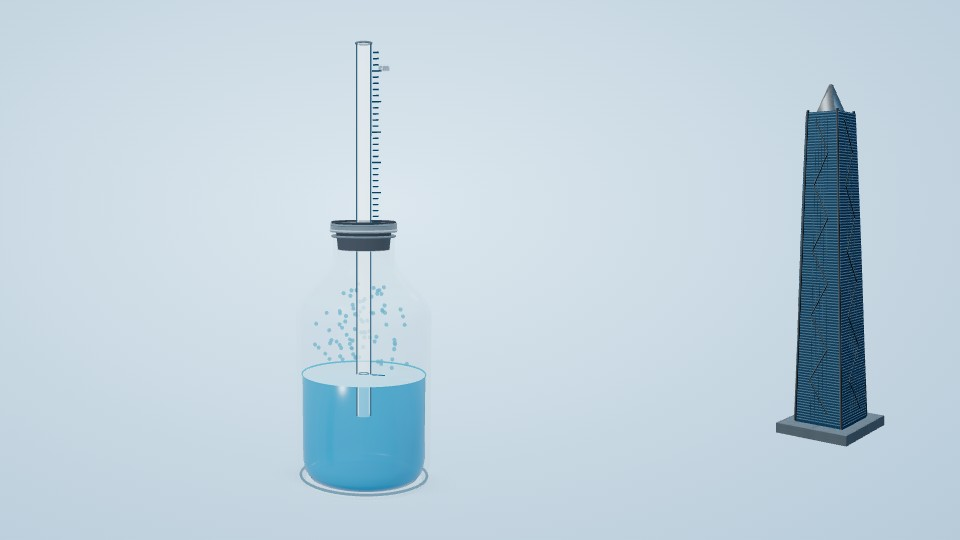
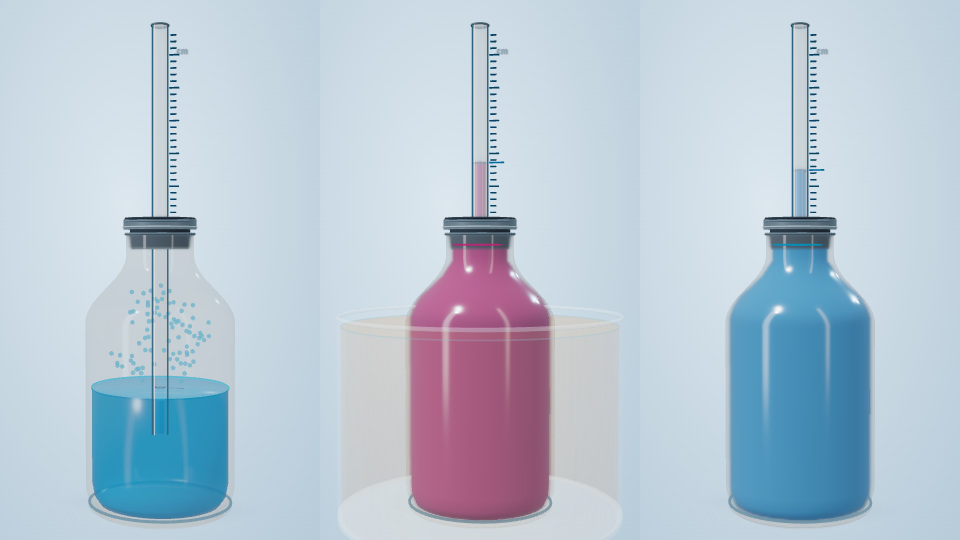
Enhance glass materials across capillary experiments and water bath

Changed region(s): [[0.3125, 0.0296, 0.6562, 0.9778], [0.75, 0.0296, 0.9375, 0.9778], [0.0938, 0.0296, 0.25, 0.9778]]

diff --git a/models/capillary-three-experiments.html b/models/capillary-three-experiments.html
@@ -70,7 +70,7 @@ main{height:calc(100dvh - 58px);min-height:0;max-width:none;padding:12px;gap:12p
 </style>
 </head>
 <body>
-<header><div><h1>自制气压计、温度计与微小形变</h1><div class="sub">同一容器结构 · 气压变化 / 液体热膨胀 / 弹性形变</div></div><span class="version"><span class="dot"></span>V12 · 吹气时长与压强联动</span></header>
+<header><div><h1>自制气压计、温度计与微小形变</h1><div class="sub">同一容器结构 · 气压变化 / 液体热膨胀 / 弹性形变</div></div><span class="version"><span class="dot"></span>V13 · 玻璃质感与压强联动</span></header>
 <main><section class="stage" aria-label="三维模型演示区域">
   <div class="mode-tabs"><button class="mode active" data-mode="pressure">① 自制气压计</button><button class="mode" data-mode="temp">② 自制温度计</button><button class="mode" data-mode="grip">③ 微小形变</button></div>
   <div id="view"></div>
@@ -106,11 +106,12 @@ let whichAction='prepare',showSection=false,showGas=true,showNotes=true,showMark
 const scene=new T.Scene(),cam=new T.PerspectiveCamera(36,1,.05,100);cam.position.set(8.6,6.0,12.8);const renderer=new T.WebGLRenderer({antialias:true,alpha:true,powerPreference:'high-performance'});renderer.setPixelRatio(Math.min(devicePixelRatio||1,1.8));renderer.outputColorSpace=T.SRGBColorSpace;renderer.toneMapping=T.ACESFilmicToneMapping;renderer.toneMappingExposure=.96;renderer.localClippingEnabled=true;view.appendChild(renderer.domElement);
 scene.add(new T.HemisphereLight(0xeaf6ff,0x8698a8,1.7));let sun=new T.DirectionalLight(0xffffff,1.35);sun.position.set(-6,11,8);scene.add(sun);let edge=new T.DirectionalLight(0xbddff7,.62);edge.position.set(5,5,-8);scene.add(edge);
 // Procedurally painted studio environment; generated locally with Canvas, no remote HDR files.
-function buildStudioEnv(){const c=document.createElement('canvas');c.width=1024;c.height=512;const g=c.getContext('2d');
- const grad=g.createLinearGradient(0,0,0,512);grad.addColorStop(0,'#b9d1df');grad.addColorStop(.22,'#edf4f8');grad.addColorStop(.50,'#dfe9ee');grad.addColorStop(.76,'#c7d5df');grad.addColorStop(1,'#788d9c');g.fillStyle=grad;g.fillRect(0,0,1024,512);
- for(const r of [[110,72,145,235],[470,62,105,249],[731,58,156,223],[975,88,22,220]]){let rr=g.createLinearGradient(r[0],0,r[0]+r[2],0);rr.addColorStop(0,'rgba(255,255,255,.03)');rr.addColorStop(.15,'rgba(250,253,255,.70)');rr.addColorStop(.84,'rgba(250,253,255,.70)');rr.addColorStop(1,'rgba(255,255,255,.02)');g.fillStyle=rr;g.fillRect(...r)}
- g.fillStyle='rgba(40,73,102,.30)';g.fillRect(290,70,36,220);g.fillRect(887,100,41,196);
- const tex=new T.CanvasTexture(c);tex.mapping=T.EquirectangularReflectionMapping;tex.colorSpace=T.SRGBColorSpace;const pmrem=new T.PMREMGenerator(renderer);const env=pmrem.fromEquirectangular(tex).texture;tex.dispose();return env;}
+function buildStudioEnv(){
+ const stage=new T.Scene();stage.add(new T.Mesh(new T.BoxGeometry(60,60,60),new T.MeshBasicMaterial({color:0x929da3,side:T.BackSide})));
+ for(const spec of [{p:[-12,7,14],size:[3.2,22],power:4.0,color:0xf6faff},{p:[11,8,10],size:[1.8,23],power:2.8,color:0xfff6e6},{p:[0,18,-9],size:[17,4],power:2.5,color:0xeaf5ff}]){
+ const panel=new T.Mesh(new T.PlaneGeometry(...spec.size),new T.MeshBasicMaterial({color:new T.Color(spec.color).multiplyScalar(spec.power),side:T.DoubleSide}));panel.position.set(...spec.p);panel.lookAt(0,3,0);stage.add(panel);}
+ const generator=new T.PMREMGenerator(renderer),target=generator.fromScene(stage,.025);stage.traverse(node=>{node.geometry?.dispose();node.material?.dispose();});generator.dispose();return target.texture;
+}
 const studioEnv=buildStudioEnv();scene.environment=studioEnv;
 const benchTex=(function(){const c=document.createElement('canvas');c.width=c.height=512;const g=c.getContext('2d');g.fillStyle='#d7dde2';g.fillRect(0,0,512,512);for(let i=0;i<4200;i++){const x=Math.random()*512,y=Math.random()*512,a=.025+Math.random()*.03,v=205+Math.random()*28;g.fillStyle=`rgba(${v},${v},${v+6},${a})`;g.fillRect(x,y,1.6+Math.random()*2.8,1.6+Math.random()*2.8);}for(let i=0;i<22;i++){g.strokeStyle=`rgba(255,255,255,${.024+Math.random()*.018})`;g.lineWidth=1+Math.random()*2.2;g.beginPath();g.moveTo(0,Math.random()*512);g.lineTo(512,Math.random()*512);g.stroke();}const t=new T.CanvasTexture(c);t.wrapS=t.wrapT=T.RepeatWrapping;t.repeat.set(1.2,1.2);return t;})();
 const bench=new T.Mesh(new T.CircleGeometry(2.8,96),new T.MeshStandardMaterial({color:0xd7dde2,map:benchTex,roughness:.66,metalness:.06}));bench.rotation.x=-Math.PI/2;bench.position.y=-.064;bench.receiveShadow=true;scene.add(bench);
@@ -121,13 +122,18 @@ function makeShadowTex(){const c=document.createElement('canvas');c.width=c.heig
 const contactShadow=new T.Mesh(new T.PlaneGeometry(2.65,1.34),new T.MeshBasicMaterial({map:makeShadowTex(),transparent:true,depthWrite:false,opacity:.92}));contactShadow.rotation.x=-Math.PI/2;contactShadow.position.set(0,.176,0);contactShadow.renderOrder=1;root.add(contactShadow);
 function makeHighlightTex(){const c=document.createElement('canvas');c.width=512;c.height=256;const g=c.getContext('2d');const r=g.createRadialGradient(256,128,18,256,128,220);r.addColorStop(0,'rgba(255,255,255,.35)');r.addColorStop(.38,'rgba(255,255,255,.12)');r.addColorStop(1,'rgba(255,255,255,0)');g.fillStyle=r;g.fillRect(0,0,512,256);const t=new T.CanvasTexture(c);return t;}
 const tableHighlight=new T.Mesh(new T.PlaneGeometry(2.95,1.55),new T.MeshBasicMaterial({map:makeHighlightTex(),transparent:true,depthWrite:false,opacity:.42}));tableHighlight.rotation.x=-Math.PI/2;tableHighlight.position.set(.04,.178,.05);tableHighlight.renderOrder=0;root.add(tableHighlight);
-const glassMat=new T.MeshPhysicalMaterial({color:0xcce6f2,metalness:0,roughness:.25,transmission:0,transparent:true,opacity:.13,depthWrite:false,side:T.FrontSide,envMapIntensity:.25,clearcoat:.18});
-const innerWallMat=new T.MeshPhysicalMaterial({color:0xc4e2ef,metalness:0,roughness:.3,transmission:0,transparent:true,opacity:.035,depthWrite:false,side:T.BackSide,envMapIntensity:.18});
+// Display lengths are model units: bottle height 3.5, wall thickness about .052.
+const glassMat=new T.MeshPhysicalMaterial({color:0xf1fbff,metalness:0,roughness:.055,transmission:.95,transparent:true,opacity:1,depthWrite:false,side:T.FrontSide,envMapIntensity:1.05,ior:1.5,thickness:.052,attenuationColor:new T.Color(0xc1e3eb),attenuationDistance:4,clearcoat:.12,clearcoatRoughness:.08});
+glassMat.userData.noMaterialFinish=true;
+const innerWallMat=new T.MeshPhysicalMaterial({color:0xe0f1f6,metalness:0,roughness:.07,transmission:0,transparent:true,opacity:.065,depthWrite:false,side:T.BackSide,envMapIntensity:.75,clearcoat:.25});innerWallMat.userData.noMaterialFinish=true;
 function tinyRubberNoise(){let c=document.createElement('canvas');c.width=c.height=128;let g=c.getContext('2d');let d=g.createImageData(128,128);for(let i=0;i<d.data.length;i+=4){let q=110+Math.random()*52;d.data[i]=q;d.data[i+1]=q;d.data[i+2]=q;d.data[i+3]=255;}g.putImageData(d,0,0);let t=new T.CanvasTexture(c);t.wrapS=t.wrapT=T.RepeatWrapping;t.repeat.set(3,3);return t;}
 const rubberBump=tinyRubberNoise();
 const rubber=new T.MeshStandardMaterial({color:0x303942,roughness:.92,metalness:0,bumpMap:rubberBump,bumpScale:.006});const rubberRim=new T.MeshStandardMaterial({color:0x697780,roughness:.42,metalness:.25});
-const waterPressureMat=new T.MeshPhysicalMaterial({color:0x1489bb,roughness:.17,metalness:0,transparent:true,opacity:.82,depthWrite:false,side:T.DoubleSide,clearcoat:.48,clearcoatRoughness:.1,envMapIntensity:.56});const waterTempMat=new T.MeshPhysicalMaterial({color:0xb53370,roughness:.17,metalness:0,transparent:true,opacity:.85,depthWrite:false,side:T.DoubleSide,clearcoat:.44,clearcoatRoughness:.1,envMapIntensity:.52});
-const innerGlass=new T.MeshPhysicalMaterial({color:0xdcebF4,roughness:.08,transparent:true,opacity:.46,depthWrite:false,side:T.DoubleSide,clearcoat:1,clearcoatRoughness:.025,envMapIntensity:1.4});
+const waterPressureMat=new T.MeshPhysicalMaterial({color:0x1489bb,roughness:.17,metalness:0,transparent:true,opacity:.60,depthWrite:false,side:T.DoubleSide,clearcoat:.25,clearcoatRoughness:.1,envMapIntensity:.42});
+const waterTempMat=new T.MeshPhysicalMaterial({color:0xb53370,roughness:.17,metalness:0,transparent:false,opacity:1,depthWrite:true,side:T.DoubleSide,clearcoat:.25,clearcoatRoughness:.1,envMapIntensity:.42});
+const waterGripMat=waterTempMat.clone();waterGripMat.color.set(0x1489bb);
+for(const material of [waterPressureMat,waterTempMat,waterGripMat])material.userData.noMaterialFinish=true;
+const innerGlass=new T.MeshPhysicalMaterial({color:0xf3fbff,roughness:.065,transmission:.82,ior:1.5,thickness:.035,transparent:true,opacity:1,depthWrite:false,side:T.FrontSide,clearcoat:.18,clearcoatRoughness:.08,envMapIntensity:1});innerGlass.userData.noMaterialFinish=true;
 const outline=new T.MeshBasicMaterial({color:0x63859a,transparent:true,opacity:.78});
 const glassProfileSource=[[0,.15],[.56,.15],[.75,.16],[.86,.22],[.92,.34],[.95,.51],[.95,2.52],[.93,2.66],[.85,2.81],[.69,2.96],[.54,3.11],[.44,3.27],[.43,3.39],[.43,3.64]];
 // Continuous, non-folding bottle profile: long straight walls must not be spline-overshot.
@@ -140,7 +146,7 @@ const lathe=(p,partial=false)=>new T.LatheGeometry(p.map(a=>new T.Vector2(a[0],a
 const glassHolder=new T.Group();root.add(glassHolder);let shell=new T.Mesh(lathe(glassProfile),glassMat);shell.scale.z=.91;glassHolder.add(shell);shell.castShadow=false;shell.receiveShadow=false;shell.renderOrder=10;
 let innerShell=new T.Mesh(lathe(glassProfile.map(p=>[Math.max(.018,p[0]-.052),p[1]])),innerWallMat);innerShell.scale.z=.91;glassHolder.add(innerShell);innerShell.receiveShadow=false;innerShell.renderOrder=9;
 const contactRim=new T.Mesh(new T.TorusGeometry(.855,.064,16,100),glassMat);contactRim.rotation.x=Math.PI/2;contactRim.position.y=.225;contactRim.scale.y=.91;glassHolder.add(contactRim);let halfShell=new T.Mesh(lathe(glassProfile,true),glassMat);halfShell.scale.z=.91;glassHolder.add(halfShell);halfShell.visible=false;halfShell.renderOrder=10;
-let glassBottom=new T.Mesh(new T.CylinderGeometry(.83,.83,.07,70),new T.MeshPhysicalMaterial({color:0xb6d8e7,roughness:.16,transparent:true,opacity:.32}));glassBottom.position.y=.17;glassBottom.scale.z=.91;glassHolder.add(glassBottom);
+const bottomGlass=glassMat.clone();bottomGlass.thickness=.07;bottomGlass.roughness=.075;let glassBottom=new T.Mesh(new T.CylinderGeometry(.83,.83,.07,70),bottomGlass);glassBottom.position.y=.17;glassBottom.scale.z=.91;glassHolder.add(glassBottom);
 function torus(r,t,y,mat){let o=new T.Mesh(new T.TorusGeometry(r,t,9,64),mat);o.rotation.x=Math.PI/2;o.position.y=y;return o}
 let baseRing=torus(.905,.018,.245,outline);baseRing.scale.y=.91;root.add(baseRing);
 const shellEdgeMat=new T.LineBasicMaterial({color:0x6e8aa0,transparent:true,opacity:.62});
@@ -194,7 +200,7 @@ const numCanvas=document.createElement('canvas');numCanvas.width=256;numCanvas.h
 const pressureWaterProfile=[[0,.215],[.58,.215],[.77,.24],[.84,.34],[.87,.50],[.87,1.695],[0,1.695]];
 const waterP=new T.Group();root.add(waterP);
 let wBody=new T.Mesh(lathe(pressureWaterProfile),waterPressureMat);wBody.scale.z=.91;wBody.renderOrder=2;waterP.add(wBody);
-const waterSurfaceMat=new T.MeshPhysicalMaterial({color:0x55b7e2,metalness:0,roughness:.08,transparent:true,opacity:.96,side:T.DoubleSide,depthWrite:true,clearcoat:1,clearcoatRoughness:.04});
+const waterSurfaceMat=new T.MeshPhysicalMaterial({color:0x55b7e2,metalness:0,roughness:.08,transparent:true,opacity:.64,side:T.DoubleSide,depthWrite:false,clearcoat:1,clearcoatRoughness:.04});
 let wTop=new T.Mesh(new T.CircleGeometry(.868,96),waterSurfaceMat);wTop.rotation.x=-Math.PI/2;wTop.scale.y=.91;wTop.position.y=1.70;wTop.renderOrder=3;waterP.add(wTop);
 const waterSurfaceLine=torus(.862,.022,1.702,new T.MeshBasicMaterial({color:0x167fae,transparent:true,opacity:.86,depthWrite:false}));waterSurfaceLine.scale.y=.91;root.add(waterSurfaceLine);
 const surfaceHighlight=new T.Group();root.add(surfaceHighlight);
@@ -233,7 +239,19 @@ let bubbleGroup=new T.Group();root.add(bubbleGroup);
 for(let i=0;i<5;i++){const bubble=new T.Mesh(new T.SphereGeometry(.058,24,16),bubbleMat);bubble.renderOrder=5;bubble.visible=false;bubbleGroup.add(bubble);}
 const blowRipples=new T.Group();root.add(blowRipples);
 for(let i=0;i<3;i++){const mat=new T.MeshBasicMaterial({color:0xe2fbff,transparent:true,opacity:.8,depthWrite:false});const ring=torus(1,.012,1.716,mat);ring.renderOrder=4;blowRipples.add(ring);}
-const bath=new T.Group();root.add(bath);let bathMat=new T.MeshPhysicalMaterial({color:0x78bfe4,transparent:true,opacity:.15,roughness:.2,side:T.DoubleSide,depthWrite:false});let bathBody=new T.Mesh(new T.CylinderGeometry(1.75,1.75,2.37,64,1,true),bathMat);bathBody.position.y=1.31;bath.add(bathBody);let bathTop=new T.Mesh(new T.CircleGeometry(1.75,64),new T.MeshBasicMaterial({color:0x79d2ee,transparent:true,opacity:.17,side:T.DoubleSide,depthWrite:false}));bathTop.rotation.x=-Math.PI/2;bathTop.position.y=2.50;bath.add(bathTop);bath.add(torus(1.75,.026,2.50,new T.MeshStandardMaterial({color:0x8eacbb,metalness:.4,roughness:.4})));let bathBase=torus(1.75,.022,.125,new T.MeshStandardMaterial({color:0x9ab4c2,roughness:.45}));bath.add(bathBase);
+const bath=new T.Group();root.add(bath);let bathMat=new T.MeshPhysicalMaterial({color:0x78bfe4,transparent:true,opacity:.15,roughness:.2,side:T.DoubleSide,depthWrite:false});let bathBody=new T.Mesh(new T.CylinderGeometry(1.75,1.75,2.37,64,1,true),bathMat);bathBody.position.y=1.31;bath.add(bathBody);let bathTop=new T.Mesh(new T.CircleGeometry(1.75,64),new T.MeshBasicMaterial({color:0x79d2ee,transparent:true,opacity:.17,side:T.DoubleSide,depthWrite:false}));bathTop.rotation.x=-Math.PI/2;bathTop.position.y=2.50;bath.add(bathTop);bath.add(torus(1.75,.009,2.50,new T.MeshBasicMaterial({color:0x78b6c9,transparent:true,opacity:.28,depthWrite:false})));let bathBase=torus(1.75,.022,.125,new T.MeshPhysicalMaterial({color:0xe4f2f9,roughness:.08,transparent:true,opacity:.22,depthWrite:false,envMapIntensity:1.0}));bath.add(bathBase);
+// Nested glass uses a reflection shell: WebGL single-pass transmission cannot
+// correctly refract another transmissive bottle and transparent particles.
+const bathGlass=new T.MeshPhysicalMaterial({color:0xedf8fc,roughness:.075,metalness:0,transmission:0,transparent:true,opacity:.14,depthWrite:false,side:T.FrontSide,envMapIntensity:1.35,clearcoat:.4,clearcoatRoughness:.1});bathGlass.userData.noMaterialFinish=true;
+bathGlass.onBeforeCompile=shader=>{shader.fragmentShader=shader.fragmentShader.replace('#include <dithering_fragment>',`#include <dithering_fragment>
+ float rim=pow(1.0-abs(dot(normalize(normal),normalize(vViewPosition))),2.0);
+ gl_FragColor.a*=mix(.22,1.65,rim);`);};bathGlass.customProgramCacheKey=()=> 'nested-bath-glass-v13';
+const bathWall=new T.Mesh(new T.CylinderGeometry(1.80,1.80,2.49,96,1,true),bathGlass);bathWall.position.y=1.37;bathWall.renderOrder=12;bath.add(bathWall);
+const bathInnerMat=bathGlass.clone();bathInnerMat.side=T.BackSide;bathInnerMat.opacity=.045;
+const bathInnerWall=new T.Mesh(new T.CylinderGeometry(1.765,1.765,2.49,96,1,true),bathInnerMat);bathInnerWall.position.y=1.37;bathInnerWall.renderOrder=11;bath.add(bathInnerWall);
+const bathRimMat=bathGlass.clone();bathRimMat.opacity=.38;
+bath.add(torus(1.7825,.025,2.615,bathRimMat));
+const bathFoot=new T.Mesh(new T.CylinderGeometry(1.8,1.8,.06,96),bathRimMat);bathFoot.position.y=.125;bathFoot.renderOrder=12;bath.add(bathFoot);
 // PAFC reference tower: an illustrative geometry assembled from verified gross height, floors,
 // vertical glass facades, steel-colored corner fins and a tapered crown. Not a survey-grade CAD model.
 const towerScene=new T.Scene();towerScene.environment=studioEnv;
@@ -319,7 +337,7 @@ function runAction(id,manual=true){if(manual){playing=false;$('play').textConten
 function playStep(){let seq=phases[mode];if(stepIndex>=seq.length){playing=false;$('play').textContent='▶ 重新演示';$('play').classList.remove('stop');return;}let ph=seq[stepIndex++];phaseDuration=ph[1];phaseClock=0;runAction(ph[0],false);if(mode==='pressure'){targets.floor=ph[2];targets.charge=addedAir;}if(mode==='temp'){targets.bath=ph[2];if(ph[0]==='room'&&stepIndex===1){parms.waterT=22;}}if(mode==='grip')targets.pinch=ph[2];}
 $('play').onclick=()=>{playing=!playing;if(playing){resetIncomingAir();Object.assign(parms,{floor:1,charge:0,bath:22,waterT:22,pinch:0});Object.assign(targets,parms);overflowLatched=false;stepIndex=0;playStep();$('play').textContent='■ 暂停连续演示';$('play').classList.add('stop')}else{$('play').textContent='▶ 继续从当前阶段';$('play').classList.remove('stop')}};
 $('mainRange').oninput=()=>{rangeText();playing=false;$('play').textContent='▶ 连续演示整个实验';$('play').classList.remove('stop');let v=+$('mainRange').value;if(mode==='pressure'){targets.floor=v;targets.charge=addedAir;whichAction='lift';updateStatus('lift');setButtonState('lift');}else if(mode==='temp'){targets.bath=v;whichAction=v>=22?'hot':'cold';updateStatus(whichAction);setButtonState(whichAction);}else{targets.pinch=v/100*(whichAction==='long'?-1:1);if(whichAction!=='short'&&whichAction!=='long'){whichAction='short';targets.pinch=v/100;}updateStatus(whichAction);}};
-document.querySelectorAll('.mode').forEach(b=>b.onclick=()=>enter(b.dataset.mode));$('showMarks').onchange=e=>{showMarks=e.target.checked;marks.visible=showMarks};$('showTube').onchange=e=>{enhancedTube=e.target.checked;tubeEdges.visible=enhancedTube;levelMarker.visible=enhancedTube;rimDark.opacity=enhancedTube?.82:.28;innerGlass.opacity=enhancedTube?.49:.27;};$('showGas').onchange=e=>{showGas=e.target.checked;$('bParticles').classList.toggle('active',showGas)};$('showNotes').onchange=e=>{showNotes=e.target.checked;document.querySelector('.overlay').style.display=showNotes?'':'none'};$('showTower').onchange=e=>{showTower=e.target.checked;towerGroup.visible=showTower&&mode==='pressure';$('towerCard').style.display=(showTower&&mode==='pressure')?'block':'none';};$('magRange').oninput=e=>{mag=+e.target.value;$('magLabel').textContent='×'+mag;};
+document.querySelectorAll('.mode').forEach(b=>b.onclick=()=>enter(b.dataset.mode));$('showMarks').onchange=e=>{showMarks=e.target.checked;marks.visible=showMarks};$('showTube').onchange=e=>{enhancedTube=e.target.checked;tubeEdges.visible=enhancedTube;levelMarker.visible=enhancedTube;rimDark.opacity=enhancedTube?.82:.28;innerGlass.opacity=enhancedTube?1:.65;};$('showGas').onchange=e=>{showGas=e.target.checked;$('bParticles').classList.toggle('active',showGas)};$('showNotes').onchange=e=>{showNotes=e.target.checked;document.querySelector('.overlay').style.display=showNotes?'':'none'};$('showTower').onchange=e=>{showTower=e.target.checked;towerGroup.visible=showTower&&mode==='pressure';$('towerCard').style.display=(showTower&&mode==='pressure')?'block':'none';};$('magRange').oninput=e=>{mag=+e.target.value;$('magLabel').textContent='×'+mag;};
 $('bSection').onclick=()=>setSection(!showSection);$('bParticles').onclick=()=>{$('showGas').checked=!$('showGas').checked;$('showGas').onchange({target:$('showGas')})};$('bZoom').onclick=()=>{$('inset').classList.toggle('show');$('bZoom').classList.toggle('active')};
 let yaw=.25,pitch=.10,dist=12.6,closeUp=false,panX=0,panY=0,panZ=0;
 function orient(){const targetX=root.position.x+panX,targetY=(closeUp?2.15:3.42)+panY,targetZ=panZ,visDist=closeUp?Math.min(dist,7.1):dist;cam.position.set(targetX+Math.sin(yaw)*Math.cos(pitch)*visDist,targetY+Math.sin(pitch)*visDist,targetZ+Math.cos(yaw)*Math.cos(pitch)*visDist);cam.lookAt(targetX,targetY,targetZ)}
@@ -379,7 +397,7 @@ let frameId=0;let prev=performance.now();function frame(time){let elapsed=Math.m
  const wh=waterHeight();if(mode==='pressure'&&whichAction!=='blow'&&wh.y>TUBE_TOP-.05)overflowLatched=true;let y=Math.max(TUBE_BOTTOM+.05,Math.min(TUBE_TOP-.05,wh.y));if(mode==='pressure'&&overflowLatched)y=TUBE_TOP-.05;if(mode==='pressure'&&whichAction==='blow')y=TUBE_BOTTOM+.025;currentHeight=blend(currentHeight,y,.36);let h=Math.max(.01,currentHeight-TUBE_BOTTOM);tubeFluid.scale.y=h; tubeFluid.position.y=TUBE_BOTTOM+h/2;meniscus.position.y=currentHeight;levelMarker.position.y=currentHeight;tubeEdges.rotation.y=yaw;
  // The curved liquid mesh uses absolute bottle-space coordinates; never re-center it like a cylinder.
  let pressure=mode==='pressure';waterP.visible=pressure;waterF.visible=!pressure;waterSurfaceLine.visible=pressure;surfaceHighlight.visible=pressure;fullLiquidSurface.visible=!pressure;fullLiquidMeniscus.visible=!pressure;gasGroup.visible=pressure&&showGas;bubbleGroup.visible=pressure&&whichAction==='blow';blowAir.visible=bubbleGroup.visible;blowRipples.visible=bubbleGroup.visible;blowCue.visible=pressure&&whichAction==='blow';bath.visible=mode==='temp'&&(whichAction==='hot'||whichAction==='cold');arrows.visible=mode==='grip'&&Math.abs(parms.pinch)>.03;
- const liquidHex=mode==='temp'?'#b53370':'#1489bb';$('zoomLiquid').setAttribute('fill',liquidHex);$('zoomMeniscus').setAttribute('stroke',mode==='temp'?'#782447':'#075d84');fullLiquidSurface.material.color.set(liquidHex);fullLiquidMeniscus.material.color.set(liquidHex);tubeLiquidMat.color.set(mode==='pressure'?0x0b6fa4:mode==='temp'?0xb04b77:0x157fb7);waterF.material=mode==='temp'?waterTempMat:waterPressureMat;if(waterSurfaceLine.material&&waterSurfaceLine.material.color){waterSurfaceLine.material.color.set(mode==='temp'?0xc56592:0x3aa8d6);waterSurfaceLine.material.opacity=.95;}
+ const liquidHex=mode==='temp'?'#b53370':'#1489bb';$('zoomLiquid').setAttribute('fill',liquidHex);$('zoomMeniscus').setAttribute('stroke',mode==='temp'?'#782447':'#075d84');fullLiquidSurface.material.color.set(liquidHex);fullLiquidMeniscus.material.color.set(liquidHex);tubeLiquidMat.color.set(mode==='pressure'?0x0b6fa4:mode==='temp'?0xb04b77:0x157fb7);waterF.material=mode==='temp'?waterTempMat:waterGripMat;if(waterSurfaceLine.material&&waterSurfaceLine.material.color){waterSurfaceLine.material.color.set(mode==='temp'?0xc56592:0x3aa8d6);waterSurfaceLine.material.opacity=.95;}
  let ds=parms.pinch,fx=1,fz=1;
  // True instrument geometry changes only slightly; magnification applies to inset diagram, not to bottle geometry.
  if(mode==='grip'&&ds>0){fx=1+.0006*ds;fz=1-.0011*ds;}
@@ -410,13 +428,13 @@ let frameId=0;let prev=performance.now();function frame(time){let elapsed=Math.m
   blowRipples.children.forEach((r,i)=>{const t=(time*.00065+i/3)%1;const radius=.07+.36*t;r.scale.set(radius,radius*.91,1);r.material.opacity=.76*(1-t);});
  }else bubbleGroup.children.forEach(b=>b.visible=false);
 
- const hotBath=parms.bath>=26;bathMat.color.set(hotBath?0xd87539:0x76b7ed);bathMat.opacity=hotBath?.34:.19;bathTop.material.color.set(hotBath?0xe88b4b:0x86d2f3);bathTop.material.opacity=hotBath?.32:.20;
+ const hotBath=parms.bath>=26;bathMat.color.set(hotBath?0xd87539:0x76b7ed);bathMat.opacity=hotBath?.08:.06;bathTop.material.color.set(hotBath?0xe88b4b:0x86d2f3);bathTop.material.opacity=hotBath?.12:.10;
  cutPanel.scale.y=(pressure?1.5:3.32)/1.45;cutPanel.position.y=pressure?.95:1.86;
  if(mode==='grip'&&$('inset').classList.contains('show')&&time-lastInsetRefresh>120){lastInsetRefresh=time;makeDeformInset();}
  if(time-readS>120){readS=time;readUpdate(wh);if(!playing&&mode==='pressure'&&whichAction==='lift'){$('mainRange').value=Math.round(targets.floor);rangeText();}}
  renderer.render(scene,cam);if(mode==='pressure'&&showTower)towerRenderer.render(towerScene,towerCamera);frameId=requestAnimationFrame(frame)}
 window.addEventListener('pagehide',()=>{cancelAnimationFrame(frameId);renderer.dispose();towerRenderer.dispose();renderer.forceContextLoss();towerRenderer.forceContextLoss();},{once:true});
-window.__tripDebug={get airFraction(){return addedAir},get state(){return {mode,floor:parms.floor,pinch:parms.pinch,pressure:pressureHeight(),magnification:mag,incomingParticles:incomingGas.count,baseParticles:85,blowSeconds,charge:parms.charge,action:whichAction}},three:T,scene,towerScene,renderer,cam,get height(){return currentHeight}};enter('pressure');frameId=requestAnimationFrame(frame);
+window.__tripDebug={get airFraction(){return addedAir},get state(){return {mode,floor:parms.floor,pinch:parms.pinch,pressure:pressureHeight(),magnification:mag,incomingParticles:incomingGas.count,baseParticles:85,blowSeconds,charge:parms.charge,action:whichAction}},three:T,scene,towerScene,renderer,cam,materials:{glassMat,innerWallMat,innerGlass,bottomGlass,bathGlass,waterPressureMat,waterTempMat,waterGripMat},objects:{shell,halfShell,innerShell,glassBottom,bathWall,bathInnerWall,tubeFluid,gasI,incomingGas},get height(){return currentHeight}};enter('pressure');frameId=requestAnimationFrame(frame);
 }
 </script>
 </body></html>

diff --git a/catalog.js b/catalog.js
@@ -431,8 +431,8 @@ window.MODEL_CATALOG = [
       "放大法",
       "细管"
     ],
-    "path": "models/capillary-three-experiments.html?v=20261026-v12",
-    "cover": "assets/covers/capillary-three-experiments-scene.jpg?v=20261026-v12",
+    "path": "models/capillary-three-experiments.html?v=20261102-glass-v13",
+    "cover": "assets/covers/capillary-three-experiments-scene.jpg?v=20261102-glass-v13",
     "symbol": "管",
     "accent": "blue"
   },

diff --git a/docs/capillary-three-experiments.md b/docs/capillary-three-experiments.md
@@ -1,6 +1,6 @@
-# 细管与玻璃瓶 · 三合一实验（V12）
+# 细管与玻璃瓶 · 三合一实验（V13）
 
-入口：`models/capillary-three-experiments.html`。采用独立案例、公共 Three.js r160、哑光材质层与屏幕空间平移规范；无外部图片、纹理或 CDN 请求。封面为实际默认场景截图。
+入口：`models/capillary-three-experiments.html`。采用独立案例、公共 Three.js r160、哑光材质层与屏幕空间平移规范；无外部图片、纹理或 CDN 请求。封面为三种模式各自实际运行的画布截图并排。
 
 - 气压计：点击吹气开始持续送气，结束时保留实际气量，可再次吹气累加。红色粒子表示新吹入的空气，蓝色表示原有空气。停止吹气、改变楼层不会自动补气。演示流率与上限为教学参数；粒子不代表实际分子数。
 - 以理想气体、细管水柱静压关系和简化高度气压模型求平衡；楼层高度按 599.1 m / 115 层线性映射。红色粒子数、充气量和压强计算同源。吹气过程是定性动画；停止后显示静态平衡预测。溢出后停止提供有效压强与液柱读数。
@@ -10,3 +10,11 @@
 - 页面隐藏/退出时释放两个 WebGL 上下文并停止帧循环；首页仅在打开案例后创建 iframe。
 
 验证：0.5 秒短吹与累计 6 秒长吹得到不同粒子数量、压强差和停止后液柱高度；停止后保留、再次累加、楼层切换不补气、重置清空及过量溢出均已核对。另检查三种模式切换、手机宽度和无脚本错误。
+
+## V13 玻璃质感（2026-11-02）
+
+主瓶在气压计、温度计和微小形变模式中统一使用透射、折射率、模型单位下的壁厚与吸收参数；细管、内壁和厚瓶底分别处理。局部矩形柔光反射环境完全由代码生成。器材的教学状态、压强与液柱计算、微小形变比例、SVG 读数与导航保持原逻辑。
+
+气压计中的液体保留透明显示，保证浸没管口和气泡可观察；满液模式以带色实体参与玻璃透射采样。水浴玻璃壁与水体分别显示，外层水浴采用边缘反射增强的透明近似，避免当前 WebGL 透射通道在多层玻璃嵌套时遮掉主瓶。此为教学可视化方案，不是光学测量模型。玻璃与液体明确跳过公共哑光处理，公共材质脚本本身未变。
+
+三种模式、吹气/停止、水浴冷热、半剖和挤压已在实际浏览器检查；主瓶和水浴同时出现时检查了透明层叠。新封面由三种模式的真实 WebGL 画布截图并排生成，重现脚本为 `scripts/capture-capillary-cover.cjs`，通过 `COVER_CHROMIUM` 指定浏览器、`COVER_NODE_MODULES` 指定 Playwright 依赖。截图过程不访问外网。
